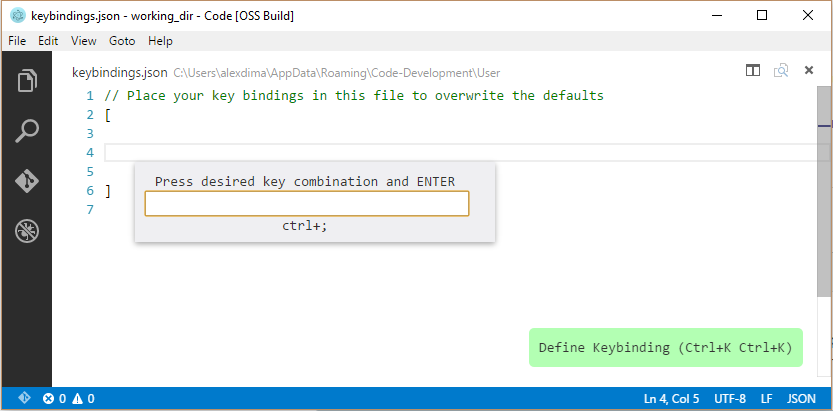
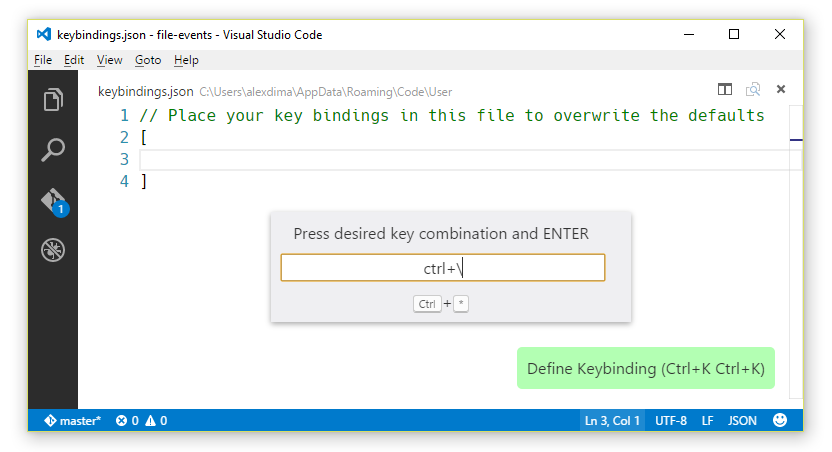
Update release notes

Changed region(s): [[0.0, 0.0, 1.0, 1.0], [0.1562, 0.4964, 0.75, 0.7299], [0.125, 0.3796, 0.5938, 0.5547]]

diff --git a/release-notes/latest.md b/release-notes/latest.md
@@ -11,7 +11,7 @@ Reviewed and updated:
 - [ ] Andre
 - [x] Isidor
 - [x] Joe
-- [ ] Alex
+- [x] Alex
 - [x] Ben
 - [x] Joao
 - [x] Dirk
@@ -39,32 +39,55 @@ There is now a setting to subscribe to the Insider's channel to get prerelease V
 
 ## Editor - Find/Replace improvements
 
-Find/Replace improvements when in regex mode:
-
-* Can now search for `^`, `$` or `^$` due to [community contribution](https://github.com/Microsoft/vscode/pull/314).
+In regex mode:
+* Can now search for `^`, `$` or `^$` thanks to a [community contribution](https://github.com/Microsoft/vscode/pull/314).
 * Can now replace with `\n` or `\t`.
+
+Keyboard shortcuts:
+* new commands: toggle case sensitive (`kb(toggleFindCaseSensitive)`), toggle regex (`kb(toggleFindRegex)`) and toggle whole word (`kb(toggleFindWholeWord)`)
+* `kb(actions.find)` now always focuses the find input field
+* `kb(editor.action.startFindReplaceAction)` now always focuses the replace input field
+* when focus is in the find widget input fields, `kbstyle(Ctrl+Down)` now focuses the editor.
 
 ## Editor - Cursor Blinking Options
 
-New option to configure cursor blinking: `editor.cursorBlinking` with values `blink`, `visible` and `hidden` due to [community contribution](https://github.com/Microsoft/vscode/pull/500).
+New option to configure cursor blinking: `editor.cursorBlinking` with values `blink`, `visible` and `hidden` thanks to [community contribution](https://github.com/Microsoft/vscode/pull/500).
 
-## Editor - Current Line Command
+## Editor - Select Current Line Command
 
-New select current line command (`kb(expandLineSelection)`) from a [community contribution](https://github.com/Microsoft/vscode/pull/961).
+New select current line command (`kb(expandLineSelection)`) thanks to a [community contribution](https://github.com/Microsoft/vscode/pull/961).
 
-## Key Bindings
+## Editor - Scroll Viewport Commands
+* thanks to a [community contribution](https://github.com/Microsoft/vscode/pull/1051).
+* scroll viewport by one line up (`kb(scrollLineUp)`) / down (`kb(scrollLineDown)`)
+* scroll viewport by one page up (`kb(scrollPageUp)`) / down (`kb(scrollPageDown)`)
 
-We added a new widget that helps input the key binding rule when editing `keybindings.json`. To launch the **Define Keybinding** widget, press `kb(editor.action.defineKeybinding)`.
+## Keybindings
 
-The widget is especially helpful when using a non-US standard keyboard layout:
+Added support for function keys `kbstyle(f13-f19)` and for numpad keys:
+* `kbstyle(numpad0-numpad9)`
+* `kbstyle(numpad_multiply)`
+* `kbstyle(numpad_add)`
+* `kbstyle(numpad_separator)`
+* `kbstyle(numpad_subtract)`
+* `kbstyle(numpad_decimal)`
+* `kbstyle(numpad_divide)`
+
+## Improvements for non US standard keyboard layouts
+
+VS Code dispatches key bindings based on [keyboard codes](https://msdn.microsoft.com/en-us/library/windows/desktop/dd375731(v=vs.85)). In `keybindings.json` and in all the UI we used to render the key codes with the produced characters under the US standard keyboard layout. We have received numerous feedback that this was very confusing, therefore we created a new node module [`native-keymap`](https://www.npmjs.com/package/native-keymap) that is used in VS Code to render the key bindings using the system's current keyboard layout.
+
+For example, `Split Editor` when using a French (France) keyboard layout is now rendered as `kbstyle(Ctrl+*)`:
+![render key binding](images/December/render-key-binding.png)
+
+When editing `keybindings.json`, we now highlight misleading keybindings - those that are represented in the file with the character produced under the standard US keyboard layout, but which need pressing keys with different labels under the current system's keyboard layout. Here is for example how the `Default keybindings` rules look like when using a French (France) keyboard layout:
+
+![keybindings.json guidance](images/December/keybindings-json.png)
+
+Finally, we added a new widget that helps input the key binding rule when editing `keybindings.json`. To launch the **Define Keybinding** widget, press `kb(editor.action.defineKeybinding)`. The widget listens for key presses and renders the serialized JSON representation in the text box and below it, the keys that VS Code has detected under your current keyboard layout. Once you've typed the key combination you want you can press `kbstyle(Enter)` and a rule snippet will be inserted.
 
 ![key binding widget](images/December/key-binding-widget.png)
 
-We also created a new node module [`native-keymap`](https://www.npmjs.com/package/native-keymap) that is used in VS Code to render the key bindings with the actual user keyboard layout.
-
-For example, `Split Editor` when using a French (France) keyboard layout is now rendered as `Ctrl+*`:
-
-![render key binding](images/December/render-key-binding.png)
 
 ## ES6 is the new default
 
@@ -81,6 +104,10 @@ We improved Extension debugging with a better way of connecting the debugger to 
 If VS Code identifies an issue with an installed extension, it will display an `issues` prompt on the Status Bar.  Click on the `issues` prompt to see the extension issue details and have the option to uninstall the extension.
 
 ![extension issues](images/December/extension-issues.png)
+
+## Extension Deactivation
+
+If an extension exports a function named `deactivate()`, VS Code now calls it on shutdown.
 
 ## File Picker improvements and fuzzy search
 
@@ -183,4 +210,5 @@ Thanks to the great feedback from our users we have fixed [many issues](https://
 * Submitted [pull request](https://github.com/atom/node-oniguruma/pull/46) to `atom/node-oniguruma` in order to [improve performance](https://github.com/Microsoft/vscode/issues/94) when colorizing long lines with multi-byte characters.
 * [Proxy support for extension gallery](https://github.com/Microsoft/vscode/issues/69)
 * Various fixes to the default light and dark theme. Due to the move to textmate tokenizers in the last release there were changes in the appearance of the default light and dark theme: Some themes got far more colorful, in particular JavaScript, some languages lost colors, e.g. Jade and XML. The goal was to stay as close as possible to what we had in 0.9.0: We stick to a few major colors: blue for keywords, green for comments and red for strings.
-
+* Changed the defaults `editor.insertSpaces` to `true` and `editor.tabSize` to `4`. To get the previous behaviour, you can change the settings back to `"auto"` and `"auto"`.
+* Changed the default keybindings on Linux for Insert Cursor Below (`kb(editor.action.insertCursorBelow)`), Insert Cursor Above (`kb(editor.action.insertCursorAbove)`), Move Line Down (`kb(editor.action.moveLinesDownAction)`) and Move Line Up (`kb(editor.action.moveLinesUpAction)`)
